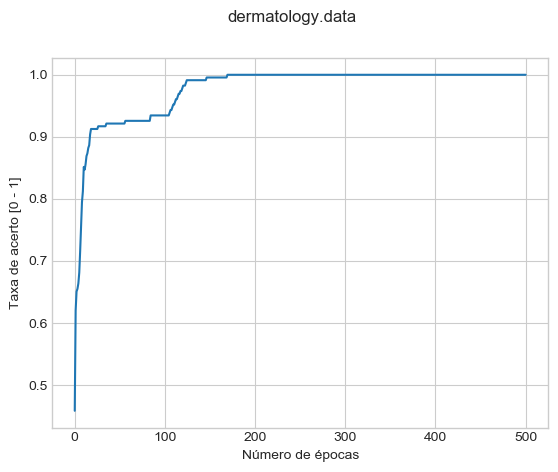
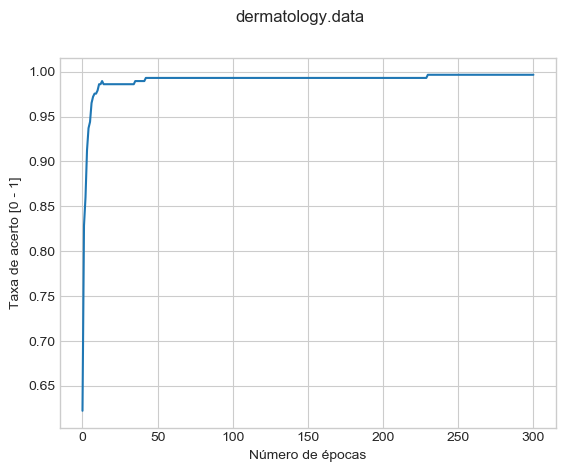
Finally working for classification

diff --git a/Models/MLP.py b/Models/MLP.py
@@ -7,7 +7,7 @@ import math
 
 class MultiLayerPerceptron():
 
-    def __init__(self, epochs=200, learning_rate=0.1, activation='sigmoid', hidden_number=10):
+    def __init__(self, epochs=200, learning_rate=0.5, activation='sigmoid', hidden_number=10):
         self.epochs = epochs
         self.weights = []
         self.hidden_weights = []
@@ -16,48 +16,48 @@ class MultiLayerPerceptron():
         self.hidden_number = hidden_number
 
 
-    def sigmoid(self, x):
+    def sigmoid(self, u):
 
-        y_sig = []
+        array = np.array(u)
 
-        for value in x:
-            try:
-                result = 1 / (1 + math.exp(-value))
-            except:
-                result = 0
-            y_sig.append(result)
+        if self.activation == 'logistic':
+            y = 1.0 / (1.0 + np.exp(-array))
+        elif self.activation == 'tanh':
+            y = np.tanh(array)
+        else:
+            raise ValueError('Error in function!')
+        return y
 
-        return np.array(y_sig)
+    def sigmoid_(self, u):
 
-    def sigmoid_(self, x):
-
-        y_sig = []
-
-        for value in x:
-            result = value * (1 - value)
-            y_sig.append(result)
-
-        return np.array(y_sig)
+        if self.activation == 'logistic':
+            y_ = u * (1.0 - u)
+        elif self.activation == 'tanh':
+            y_ = 1.0 - (u * u)
+        else:
+            raise ValueError('Error in derivate!')
+        return y_
 
     def updateEta(self, epoch):
-        eta_i = 0.2
-        eta_f = 0.05
+        eta_i = 0.1
+        eta_f = eta_i * 0.5
         eta = eta_i * ((eta_f / eta_i) ** (epoch / self.epochs))
         self.learning_rate = eta
-        # self.learning_rate = 0.1
 
     def fit(self, x, Y, dataset, error_graph=True, epochs=300):
 
         self.number_of_classes = len(set([str(output) for output in Y]))
+        x_shape = np.shape(x)[1]
 
-        hidden_weights = np.random.uniform(low=-1.0, high=1.0, size=(len(x[0]) + 1, self.hidden_number))
-        weights = np.random.uniform(low=-1.0, high=1.0, size=(self.hidden_number, self.number_of_classes))
-        # hidden_weights = np.zeros((len(x[0]) + 1, self.hidden_number))
-        # weights = np.zeros((self.hidden_number, self.number_of_classes))
+        hidden_weights = np.random.random(size=(x_shape + 1, self.hidden_number))
+        hidden_weights -= 0.5
+        hidden_weights *= 2
+        weights = np.random.uniform(size=(self.hidden_number+1, self.number_of_classes))
+        weights -= 0.5
+        weights *= 2
 
         errors_in_epochs = []
         for epoch in range(epochs):
-
             self.updateEta(epoch)
             error_count = 0
 
@@ -70,6 +70,8 @@ class MultiLayerPerceptron():
 
                 h = self.sigmoid(uh)
                 h_ = self.sigmoid_(h)
+                h = np.insert(h, 0, -1)
+                h_ = np.insert(h_, 0, -1)
 
                 uy = h.dot(weights)
                 y = self.sigmoid(uy)
@@ -96,7 +98,7 @@ class MultiLayerPerceptron():
                 factor1 = np.array([e * y_]).transpose()
                 e_hidden = np.array(weights).dot(factor1)
 
-                update_hidden = h__transp * e_hidden
+                update_hidden = h__transp[1:] * e_hidden[1:]
                 update_hidden = update_hidden.dot(x_transp).transpose()
 
                 hidden_weights += self.learning_rate * update_hidden
@@ -105,16 +107,19 @@ class MultiLayerPerceptron():
         if error_graph:
             self.plot_error_graph(errors_in_epochs, dataset)
 
-        return weights, hidden_weights
+        self.weights = weights
+        self.hidden_weights = hidden_weights
 
     def predict(self, data_input):
 
         data_input = np.insert(data_input, 0, -1)
         uh = data_input.dot(self.hidden_weights)
         h = self.sigmoid(uh)
+        h = np.insert(h, 0, -1)
+
         u = np.array(self.weights).transpose().dot(h)
 
-        y_sig = list(self.sigmoid_(u))
+        y_sig = list(self.sigmoid(u))
         y = list(np.zeros(self.number_of_classes, dtype=int))
         y[y_sig.index(max(y_sig))] = 1
 
@@ -134,7 +139,7 @@ class MultiLayerPerceptron():
             if not sum(error**2) == 0:
                 error_count += 1
 
-            desired_str = str(desired)
+            desired_str = str(list(desired))
             output_str = str(output)
 
             if desired_str in confusion_matrix:

diff --git a/main-multipercepron.py b/main-multipercepron.py
@@ -8,6 +8,7 @@ matplotlib.interactive(True)
 # ['GTK3Agg', 'GTK3Cairo', 'MacOSX', 'nbAgg', 'Qt4Agg', 'Qt4Cairo', 'Qt5Agg', 'Qt5Cairo', 'TkAgg', 'TkCairo', 'WebAgg', 'WX', 'WXAgg', 'WXCairo', 'agg', 'cairo', 'pdf', 'pgf', 'ps', 'svg', 'template']
 import random
 from Models.MLP import MultiLayerPerceptron
+import collections
 
 datasets = [ClassificationDatasets.IRIS,
             ClassificationDatasets.CANCER,
@@ -15,29 +16,61 @@ datasets = [ClassificationDatasets.IRIS,
             ClassificationDatasets.COLUNA,
             ClassificationDatasets.ARTIFICIAL_XOR]
 
+number_of_hidden = range(2, 15, 2)
+
 for dataset in datasets:
 
-    perceptron_results = []
+    print('INICIANDO VALIDAÇÃO PARA O %s' % dataset.value)
 
-    for index in range(0, 1):
+    hit_sum_test = []
+    data_manager = DataManager(dataset)
+    data_manager.load_data()
+    the_best_numbers = []
 
-        print(index)
-        data_manager = DataManager(dataset)
-        x_TRAINS, y_TRAINS, x_TESTS, y_TESTS = data_manager.split_train_test_5fold()
+    for index in range(0, 20):
 
-        perceptron = MultiLayerPerceptron(activation='sigmoidal')
+        x_TRAIN, y_TRAIN, x_VALIDATION, y_VALIDATION = data_manager.split_train_test_5fold(data_manager.X,
+                                                                                           data_manager.Y)
+        chosen_numbers = []
+        best_accuracies = []
 
-        for fold in range(0, 1):
+        best_result = 0
+        best_number_of_hidden = 0
 
-            # result = perceptron.fit(x_TRAINS[fold], y_TRAINS[fold], dataset.value, error_graph=True)
-            # perceptron.weights = result
-            # perceptron_results.append(perceptron.evaluate(x_TESTS[fold], y_TESTS[fold]))
-            perceptron.plot_decision_surface(x_TRAINS[fold], x_TESTS[fold], y_TRAINS[fold], y_TESTS[fold], name=dataset)
+        for hidden_number in number_of_hidden:
 
-    print(dataset)
-    print('Accuracy: %.2f' % np.average(perceptron_results))
-    print('Stand De: %.2f%%' % np.std(perceptron_results))
+            x_TRAINS, y_TRAINS, x_TESTS, y_TESTS = data_manager.split_train_test_5fold(x_TRAIN[0], y_TRAIN[0])
 
+            hit_sum = []
+
+            for fold in range(0, 5):
+
+                perceptron = MultiLayerPerceptron(activation='tanh', hidden_number=hidden_number, learning_rate=0.01)
+                perceptron.fit(x_TRAINS[fold], y_TRAINS[fold], dataset.value, error_graph=True, epochs=300)
+                hit_sum.append(perceptron.evaluate(x_TESTS[fold], y_TESTS[fold]))
+
+            if np.average(hit_sum) > best_result:
+                best_number_of_hidden = hidden_number
+
+        chosen_numbers.append(best_number_of_hidden)
+        best_accuracies.append(best_result)
+
+        counts = collections.Counter(chosen_numbers)
+        most_frequent = sorted(chosen_numbers, key=lambda x: (-counts[x], x), reverse=False)
+        the_best_numbers.append(most_frequent[0])
+
+        validation_perceptron = MultiLayerPerceptron(activation='tanh', hidden_number=most_frequent[0], learning_rate=0.01)
+        validation_perceptron.fit(x_TRAIN[0], y_TRAIN[0], dataset.value, epochs=300)
+        hit_sum_test.append(validation_perceptron.evaluate(x_VALIDATION[0], y_VALIDATION[0]))
+
+    counts = collections.Counter(the_best_numbers)
+    most_frequent = sorted(the_best_numbers, key=lambda x: (-counts[x], x), reverse=False)
+
+    print('Accuracy: %.2f' % np.average(hit_sum_test))
+    print('Min: %.2f' % np.min(hit_sum_test))
+    print('Max: %.2f' % np.max(hit_sum_test))
+    print('Stand De: %.2f%%' % np.std(hit_sum_test))
+    print('Número de Neurônios: %d' % most_frequent[0])
 
 # input, output = generate_f2()
 # # ax = plt.axes(projection="3d")

diff --git a/main.py b/main.py
@@ -12,7 +12,9 @@ for dataset in datasets:
     for index in range(0, 1):
 
         manager = DataManager(dataset.value)
-        x_TRAINS, y_TRAINS, x_TESTS, y_TESTS = manager.split_train_test_5fold()
+        manager.load_data()
+
+        x_TRAINS, y_TRAINS, x_TESTS, y_TESTS = manager.split_train_test_5fold(manager.X, manager.Y)
         error_average = 0
 
         for i in range(0, 1):
@@ -23,8 +25,8 @@ for dataset in datasets:
 
             error_average += perceptron.evaluate(x_TESTS[i], y_TESTS[i], should_print_confusion_matrix=True if index == 4 and i == 0 else False)
 
-            if i == 4:
-                perceptron.plot_decision_surface(dataset.value, dataset.value)
+            # if i == 4:
+            #     perceptron.plot_decision_surface(dataset.value, dataset.value)
 
         results.append(error_average/5.0)
 

diff --git a/data_manager.py b/data_manager.py
@@ -101,7 +101,7 @@ class DataManager:
             x_TESTS.append(np.array(X_shuffled[split_point1:split_point2]))
             y_TESTS.append(np.array(Y_shuffled[split_point1:split_point2]))
 
-        if not hasvalidation:
+        if hasvalidation:
             return np.array(x_TRAINS)[0], np.array(y_TRAINS)[0], np.array(x_TESTS)[0], np.array(y_TESTS)[0]
         else:
             return np.array(x_TRAINS), np.array(y_TRAINS), np.array(x_TESTS), np.array(y_TESTS)
